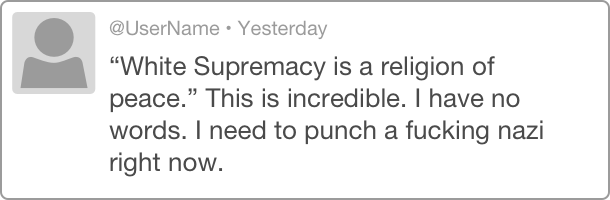
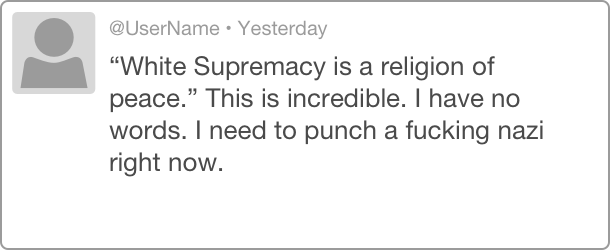
text and image updates

diff --git a/fourhorsemen/fourhorsemen/templates/remediation_options.html b/fourhorsemen/fourhorsemen/templates/remediation_options.html
@@ -11,17 +11,19 @@
   <div class="container">
     <div class="row">
       <div class="col-lg-8 col-lg-offset-2">
-        <p class="lead">Thinking back to the message you saw earlier, which action would you want to take in response to it?</p>
-        <section>
-          <div class="col-lg-6">
-            <p>Prevent the user from posting again until they have completed an empathy exercise</p>
-            <button class="btn btn-primary last next_button" type="button" style="margin:auto;display:block" onclick="remediationOptions('Require poster to complete an empathy exercise')">Take this action</button>
-          </div>
-          <div class="col-lg-6">
-            <p class="message-caption">Temporarily suspend the poster</p>
-            <button class="btn btn-primary last next_button" type="button" style="margin:auto;display:block" onclick="remediationOptions('Temporarily suspend the poster')">Take this action</button>
-          </div>
-        </section>
+        <p class="lead">Here again is the message you rated earlier. Which action would you rather have the platform take against it?</p>
+        <div class="col-lg-8 col-lg-offset-1" style="padding-bottom:40px">
+          <img src="{% static 'img/no_flag-dir-no_corners.png' %}" class="img-responsive center-block" alt="image of a potentially harassing social media post">
+        </div>
+        <div class="col-lg-6">
+          <p style="text-align:center">Prevent the user from posting again until they have completed an empathy exercise</p>
+          <button class="btn btn-primary last next_button" type="button" style="margin:auto;display:block" onclick="remediationOptions('Require poster to complete an empathy exercise')">Take This Action</button>
+        </div>
+        <div class="col-lg-6">
+          <p style="text-align:center">Temporarily suspend the poster</p>
+          <br>
+          <button class="btn btn-primary last next_button" type="button" style="margin:auto;display:block" onclick="remediationOptions('Temporarily suspend the poster')">Take This Action</button>
+        </div>
       </div>
     </div>
     <div class="row bottom_content">
@@ -31,13 +33,6 @@
           <h3>Remediation Options</h3>
           <p>We didn’t ask our survey respondents this exact question, but we noticed a trend in what remediation options they preferred to apply to the messages they saw. We provided them with options that included common and relatively punitive actions, along with uncommon but potentially useful remediative actions. The main difference between those two might be considered as the difference between a short-term solution and longer-term solution: i.e. dealing with the symptom (harassing or violent messages) rather than the underlying problem (non-compliance with social norms, mental health issues, etc.).</p>
           <p>We were surprised that a large number of people chose the uncommon remediative options as one of their top three methods:</p>
-        </section>
-
-        <section id="">
-          <i class="fa fa-area-chart fa-5x" style="color:white"></i>
-          <i class="fa fa-bar-chart fa-5x" style="color:white"></i>
-          <i class="fa fa-line-chart fa-5x" style="color:white"></i>
-          <i class="fa fa-pie-chart fa-5x" style="color:white"></i>
         </section>
 
         <section id="chart">
@@ -50,7 +45,7 @@
         </section>                       
 
         <section class="last">
-          <a href="{{ next }}"><button class="btn btn-primary" type="button">Next</button></a>
+          <a href="{{ next }}"><button class="btn btn-primary" type="button">Next Page</button></a>
         </section>
       </div>
     </div>

diff --git a/fourhorsemen/fourhorsemen/templates/content_flags.html b/fourhorsemen/fourhorsemen/templates/content_flags.html
@@ -12,9 +12,9 @@
   <div class="container">
     <div class="row">
       <div class="col-lg-8 col-lg-offset-2">
-        <p class="lead">To begin, please rate the following piece of online content:</p>
+        <p class="lead">Please rate the following piece of content:</p>
         <div class="col-lg-8 col-lg-offset-1">
-          <img src="{{ baseURL }}{{ image }}" class="img-responsive center-block" alt="image of a potentially harassing social media post">
+          <img src="{% static 'img/algorithm-dir-feminist-no_corners.png' %}" class="img-responsive center-block" alt="image of a potentially harassing social media post">
         </div>
       </div>
       <div class="col-lg-8 col-lg-offset-2">
@@ -43,22 +43,16 @@
             {% endfor %}
           </div>
 
-          <button type="button" id="next_button" class="btn btn-primary last" onclick="contentFlags()">Click to reveal stuff below</button>
+          <button type="button" id="next_button" class="btn btn-primary last" onclick="contentFlags()">Click to See Results</button>
         </form>
 
         <div class="bottom_content">
           <a name="bottom_content"></a>
           <section id="">
             <h3>Safety in Numbers</h3>
-            <p>You probably rated it about the same as you did before, right? We tested a small selection of visual flags on the messages, expecting participants to rate them higher for harassment. However, that did not turn out to be true to a statistically significant percentage. We believe that the violence present in the messages we showed led to that result.</p>
+            <p>You may have rated it about the same as you did before. We tested a small selection of visual flags on the messages, expecting participants to rate them higher for harassment. However, that did not turn out to be true to a statistically significant percentage. We believe that the violence present in the messages we showed led to that result.</p>
             <p>However, one interesting result did emerge: when there was a flag present, users were significantly more likely to opt to remove the message from the platform (as one of their preferred remediation options). We think this shows that users are more willing to remove content that they see as harassing, if there is safety in numbers—i.e. if they know that someone or something else agrees with their assessment.</p>
-          </section>
-
-          <section id="">
-              <i class="fa fa-area-chart fa-5x" style="color:white"></i>
-              <i class="fa fa-bar-chart fa-5x" style="color:white"></i>
-              <i class="fa fa-line-chart fa-5x" style="color:white"></i>
-              <i class="fa fa-pie-chart fa-5x" style="color:white"></i>
+            <p>Need to explain the chart below:</p>
           </section>
 
           <section id="chart">
@@ -70,7 +64,7 @@
               <p>This is not real text! Placeholder!</p>
           </section>                        
           <section class="last">
-            <a href="{{ next }}"><button class="btn btn-primary" type="button">Next</button></a>
+            <a href="{{ next }}"><button class="btn btn-primary" type="button">Next Page</button></a>
           </section>
         </div>
       </div>

diff --git a/fourhorsemen/fourhorsemen/templates/content_assessment.html b/fourhorsemen/fourhorsemen/templates/content_assessment.html
@@ -20,7 +20,7 @@
       <div class="col-lg-8 col-lg-offset-2">
         <p class="lead">To begin, please rate the following piece of online content:</p>
         <div class="col-lg-8 col-lg-offset-1">
-          <img src="{{ baseURL }}{{ image }}" class="img-responsive center-block" alt="image of a potentially harassing social media post">
+          <img src="{% static 'img/no_flag-dir-no_corners.png' %}" class="img-responsive center-block" alt="image of a potentially harassing social media post">
         </div>
       </div>
       <div class="col-lg-8 col-lg-offset-2">
@@ -49,33 +49,26 @@
             {% endfor %}
           </div>
 
-          <button type="button" id="next_button" class="btn btn-primary last" onclick="contentAssessment()">Click to reveal stuff below</button>
+          <button type="button" id="next_button" class="btn btn-primary last" onclick="contentAssessment()">See Survey Results</button>
         </form>
 
         <div class="bottom_content">
           <a name="bottom_content"></a>
           <section id="">
             <h3>Harassment Ratings: Our Results</h3>
-            <p>In our survey, we asked people to rate pieces of content with similar levels of suggested violence. We expected to see wider variations in the means of rated harassment, but the messages were rated very similarly by most participants:</p>
-          </section>
-
-          <section id="">
-              <i class="fa fa-area-chart fa-5x" style="color:white"></i>
-              <i class="fa fa-bar-chart fa-5x" style="color:white"></i>
-              <i class="fa fa-line-chart fa-5x" style="color:white"></i>
-              <i class="fa fa-pie-chart fa-5x" style="color:white"></i>
+            <p>In our survey, we asked people to rate pieces of content with similar levels of suggested violence. We expected to see wider variations in the means of rated harassment, but the messages were rated very similarly by most participants.</p>
+            <p>In the charts below, your answer is represented by the teal dot, and the red dot represents the mean score that our respondents gave all messages:
           </section>
 
           <section id="chart">
-            <div id="chart" align="center">
-
+            <div id="chart">
             </div>
           </section>
           <section id="">
               <p>Interestingly, what has been typically defined as online harassment differs substantially from what American legal definitions of harassment are. This can lead to issues getting law enforcement involved. However, internet users seemed to be able to come to a consensus that material advocating violence does not belong on these channels.</p>
           </section>                        
           <section class="last">
-            <a href="{{ next }}"><button class="btn btn-primary" type="button">Next</button></a>
+            <a href="{{ next }}"><button class="btn btn-primary" type="button">Next Page</button></a>
           </section>
         </div>
       </div>

diff --git a/fourhorsemen/fourhorsemen/templates/algorithmic_factors.html b/fourhorsemen/fourhorsemen/templates/algorithmic_factors.html
@@ -11,7 +11,7 @@
   <div class="container">
     <div class="row">
       <div class="col-lg-8 col-lg-offset-2">
-        <p class="lead">What factors would you want to include in your own algorithm?</p>
+        <p class="lead">Imagine you are creating an algorithm to detect harassing content. Choose the top 3 considerations you would want to include:</p>
       </div>
       <div class="col-lg-8 col-lg-offset-2">
         <form action="/content_assessment/" method="POST" role="form">
@@ -39,7 +39,7 @@
             {% endfor %}
           </div>
           <p>form stuff should be appearing above this</p>
-          <button type="button" id="next_button" class="btn btn-primary last" onclick="algorithmicFactors(0)">Click to reveal stuff below</button>
+          <button type="button" id="next_button" class="btn btn-primary last" onclick="algorithmicFactors(0)">Click to See Results</button>
         </form>
       </div>  
     </div>      
@@ -48,7 +48,8 @@
       <div class="col-lg-8 col-lg-offset-2">
         <a name="bottom_content"></a>
         <section id="">
-          <p>We found it interesting that a large number of respondents replied with image recognition. This might show that they have come across offensive or harassing images quite often, though we didn’t ask them about that.</p>
+          <h3>Algorithmic Factors</h3>
+          <p>We found it interesting that a large number of respondents replied with image recognition. This might indicate that they've come across offensive or harassing images quite often. Have you?</p>
         </section>
 
         <section id="chart">
@@ -57,8 +58,12 @@
           </div>
         </section>
 
+        <section id="">
+          <p>As previously discussed, presently the bulk of the work of content moderation is done by human moderators, but platforms are more and more turning to automated, algorithmic mechanisms to support or take over the work of addressing the problem of harassment at scale. For example, Jigsaw recently released <a href="http://www.perspectiveapi.com/" target="_blank">Perspective</a>, an algorithm that attempts to counter abuse by assigning a piece of text a “toxicity” score, which could conceivably be used by a platform to remove messages over a certain threshold. This algorithm focuses entirely on the text content of the message itself. The first release of the Jigsaw API gives a toxicity score of 78% to “I hate bananas,” while it assigns a toxicity score of only 37% to “We must secure our existence and a future for white children” which is considered to be the most popular white supremacist slogan in the world. This highlights challenges with this approach.</p>
+        </section>
+
         <section class="last">
-          <a href="{{ next }}"><button class="btn btn-primary" type="button">Next</button></a>
+          <a href="{{ next }}"><button class="btn btn-primary" type="button">Next Page</button></a>
         </section>
       </div>
     </div>

diff --git a/fourhorsemen/fourhorsemen/templates/who_moderates.html b/fourhorsemen/fourhorsemen/templates/who_moderates.html
@@ -12,10 +12,7 @@
   <div class="container">
     <div class="row">
       <div class="col-lg-8 col-lg-offset-2">
-        <p class="lead">Replace these with our questions for fairness, accuracy, trustworthiness:</p>
-        <div class="col-lg-8 col-lg-offset-1">
-          <img src="{{ baseURL }}{{ image }}" class="img-responsive center-block" alt="image of a potentially harassing social media post">
-        </div>
+        <p class="lead">In identifying potentially harassing content, which would you prefer as a moderator?</p>
       </div>
       <div class="col-lg-8 col-lg-offset-2">
         <form action="/content_assessment/" method="POST" role="form">
@@ -42,7 +39,7 @@
           <br><br>
           {% endfor %}
         </div>
-        <button type="button" id="next_button" class="btn btn-primary last" onclick="whoModerates(0)">Click to reveal stuff below</button>
+        <button type="button" id="next_button" class="btn btn-primary last" onclick="whoModerates(0)">Click to See Results</button>
         </form>
       </div>
     </div>
@@ -65,13 +62,6 @@
           <p>But the fact remains that most of us don’t trust algorithms and computers to make these kinds of decisions for us:</p>
         </section>
 
-        <section id="">
-          <i class="fa fa-area-chart fa-5x" style="color:white"></i>
-          <i class="fa fa-bar-chart fa-5x" style="color:white"></i>
-          <i class="fa fa-line-chart fa-5x" style="color:white"></i>
-          <i class="fa fa-pie-chart fa-5x" style="color:white"></i>
-        </section>
-
         <section id="chart">
           <script src="https://d3js.org/d3.v4.min.js"></script>
           <div id="chart" align="center">
@@ -79,7 +69,7 @@
         </section>                   
 
         <section class="last">
-          <a href="{{ next }}"><button class="btn btn-primary" type="button">Next</button></a>
+          <a href="{{ next }}"><button class="btn btn-primary" type="button">Next Page</button></a>
         </section>
       </div>
     </div>

diff --git a/fourhorsemen/fourhorsemen/templates/context_matters.html b/fourhorsemen/fourhorsemen/templates/context_matters.html
@@ -10,12 +10,7 @@
   <div class="container">
     <div class="row">
       <div class="col-lg-8 col-lg-offset-2">
-        <p class="lead">This is placeholder for the interaction instructions:</p>
-        <div class="col-lg-8 col-lg-offset-1">
-          <img src="{{ baseURL }}{{ image }}" class="img-responsive center-block" alt="image of a potentially harassing social media post">
-        </div>
-      </div>
-      <div class="col-lg-8 col-lg-offset-2">
+        <p class="lead">Which platform do you spend the most time on?</p>
         <form action="/content_assessment/" method="POST" role="form">
           {% csrf_token %}
           <div class="form-group">
@@ -41,7 +36,7 @@
             {% endfor %}
           </div>
 
-          <button type="button" id="next_button" class="btn btn-primary last" onclick="contextMatters()">Click to reveal stuff below</button>
+          <button type="button" id="next_button" class="btn btn-primary last" onclick="contextMatters()">Click to See Results</button>
         </form>
 
         <div class="bottom_content">
@@ -55,13 +50,6 @@
             <p>Would you want to go there?</p>
           </section>
 
-          <section id="">
-              <i class="fa fa-area-chart fa-5x" style="color:white"></i>
-              <i class="fa fa-bar-chart fa-5x" style="color:white"></i>
-              <i class="fa fa-line-chart fa-5x" style="color:white"></i>
-              <i class="fa fa-pie-chart fa-5x" style="color:white"></i>
-          </section>
-
           <section id="chart">
             <div id="chart" align="center">
 
@@ -71,7 +59,7 @@
               <p>What chart should go above?</p>
           </section>                        
           <section class="last">
-            <a href="{{ next }}"><button class="btn btn-primary" type="button">Next</button></a>
+            <a href="{{ next }}"><button class="btn btn-primary" type="button">Next Page</button></a>
           </section>
         </div>
       </div>

diff --git a/fourhorsemen/fourhorsemen/templates/fin.html b/fourhorsemen/fourhorsemen/templates/fin.html
@@ -10,7 +10,9 @@
 
                     <section id="">
                         <h3>Thank you for visiting our reflection site!</h3>
-                        <p>Lorem ipsum dolor sit amet, consectetur adipiscing elit. Praesent semper mauris in ipsum mollis luctus. Curabitur tempor nisi vel faucibus vulputate. Sed vestibulum massa ante, eget faucibus sem venenatis ac. Nulla malesuada sem vel felis sodales, sed porta diam mollis. Nulla facilisi. In lacinia laoreet ex, vitae egestas neque euismod nec. Nunc volutpat hendrerit semper. Fusce sed dictum quam, eget fringilla eros. Lorem ipsum dolor sit amet, consectetur adipiscing elit. Etiam non egestas diam, et faucibus elit.</p>
+                        <p>We hope you've learned a bit more about user attitudes toward online harassment, flagging methods, and remediation options. To explore the issue in more depth, you can read our research paper or visit <a href="https://meta.wikimedia.org/wiki/Research:Online_harassment_resource_guide" target="_blank">Wikimedia's Online Harassment Research Guide</a> for more resources.</p>
+                        <br><br><br>
+                        <p class="message-caption">This site was created by Paul Glenn, Molly Mahar, Jason Danker and Emily Witt as part of their Berkeley School of Information 2017 MIMS Final Project.</p>
                     </section>                      
 
                 </div>

diff --git a/fourhorsemen/fourhorsemen/templates/index.html b/fourhorsemen/fourhorsemen/templates/index.html
@@ -6,12 +6,12 @@
             <div class="container">
                 <div class="row">
                     <div class="col-lg-8 col-lg-offset-2">
-                        <h1 class="page-header">Welcome to the Moderation Machine</h1>  
+                        <h1 class="page-header">The Moderation Machine</h1>  
                         <p class="lead">Moderation Machine is a platform for reflection about online harassment, one of the great issues of our time. Here, you'll have the opportunity to answer questions about your views on the issue and compare your answers to a broad survey of the population. 
 
                         No data will be collected during your experience on this site.</p>
 
-                    <a href="{{ next }}"><button class="btn btn-primary" type="button"><i class="fa fa-fw fa-line-chart"></i> Next</button></a>
+                    <a href="{{ next }}"><button class="btn btn-primary" type="button">Enter the Site</button></a>
 
                     </div>
                 </div>

diff --git a/fourhorsemen/fourhorsemen/templates/free_speech.html b/fourhorsemen/fourhorsemen/templates/free_speech.html
@@ -51,7 +51,7 @@
         </section>                       
 
         <section class="last">
-          <a href="{{ next }}"><button class="btn btn-primary" type="button">Next</button></a>
+          <a href="{{ next }}"><button class="btn btn-primary" type="button">Next Page</button></a>
         </section>
       </div>
     </div>
